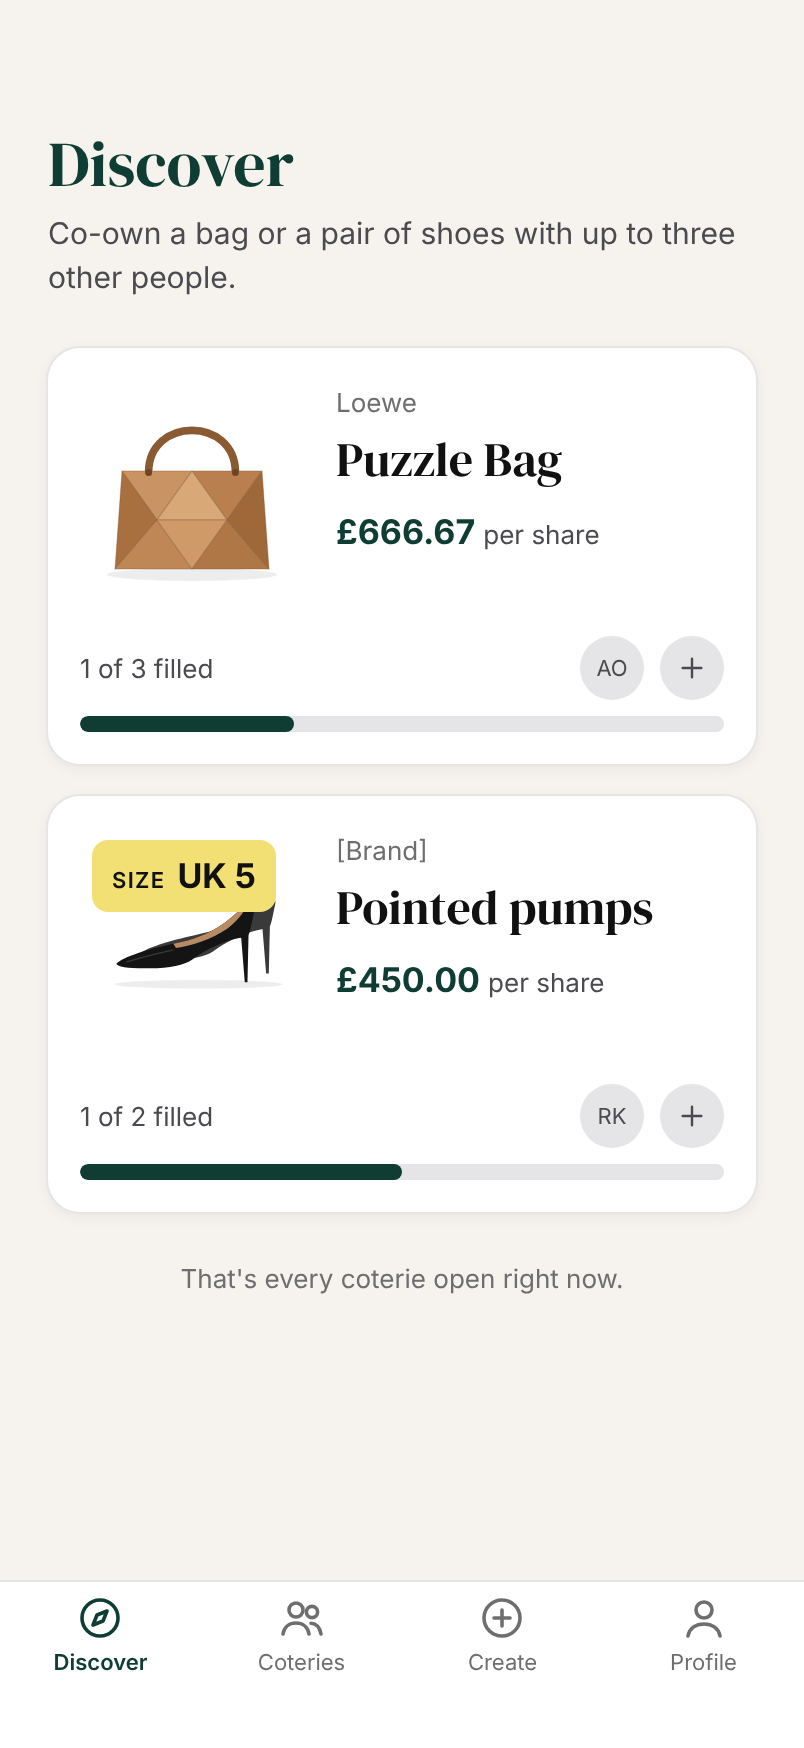
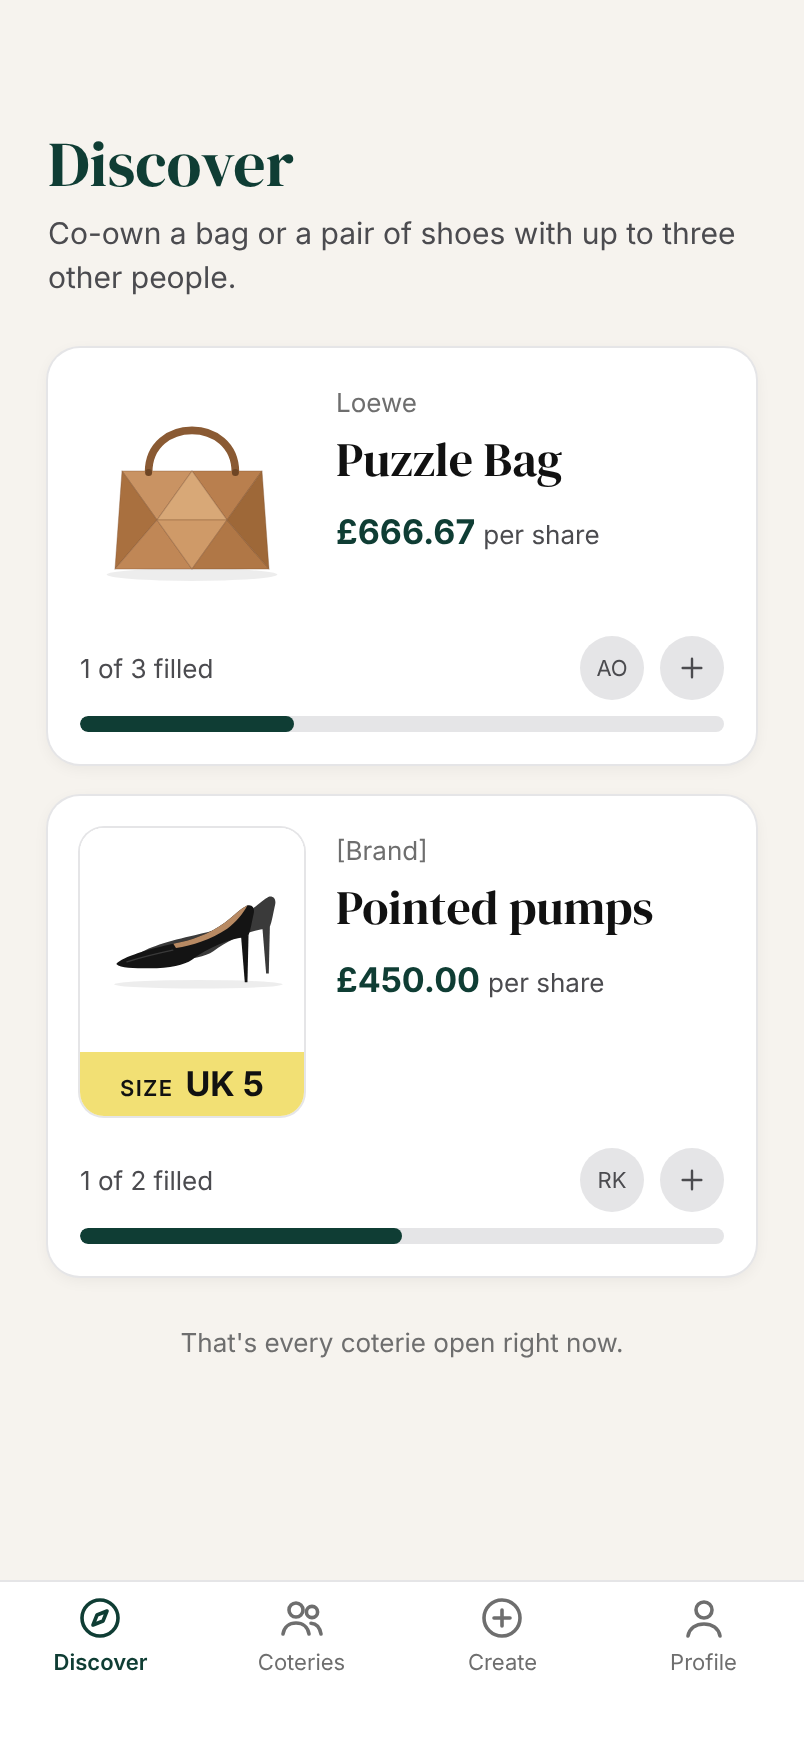
docs(plan-4): the card's size badge sits under the photo, not over it
On a 112pt thumbnail the corner badge covered about a quarter of the
photo, and real product photos fill 60-70% of the frame, so any overlay
would sit on the item. Agreed instead: a yellow strip attached under the
thumbnail, sharing one tile with the photo.

- Task 1: OursSizeBadge's emphasis is `.strip` (17pt, full width,
  square corners) or `.detail` (24pt); `.card` is gone.
- Task 2: the Discover card's thumbnail is photo + strip in one
  radiusSm tile with a mist hairline. Shoe cards are ~32pt taller.
- Screenshots 01 and 23 re-exported.

Claude-Session: https://claude.ai/code/session_011C51ZTw1UKT1v3BrvBzYU2

diff --git a/plans/2026-11-08-plan-4-screens-to-mockups.md b/plans/2026-11-08-plan-4-screens-to-mockups.md
@@ -22,7 +22,7 @@ Made with the user while reviewing the mock-ups (2026-11-07 and 2026-11-08).
 | No funding deadline, no term, no day count | No deadline, "12 months" or "121 days" anywhere. "Your use: Equal time on a shared calendar" stays |
 | Funding copy | "N of M filled" on Discover cards, the detail screen and "You're in". Never "committed" |
 | New items only | No condition field in the wizard |
-| Size badge | A new, larger size badge, on the photo's top-left corner of Discover cards and beside the name on the detail screen (Task 1) |
+| Size badge | A new, larger size badge: a yellow strip attached under the thumbnail on Discover cards (never laid over the photo, which real products fill), and beside the name on the detail screen (Task 1) |
 | Ownership card | `OursOwnershipCard` as merged in `coterie-design` #8: share ring, one status line in words, co-owner avatars, no badges, no money |
 | Badges | Status in words; a badge only asks for action or flags a problem. The detail screen keeps its "Full" and "Your share" badges as mocked |
 | Payment | Not built. Every place payment will go shows the dashed placeholder box (Task 5) |
@@ -57,8 +57,8 @@ Made with the user while reviewing the mock-ups (2026-11-07 and 2026-11-08).
 
 ```swift
 public struct OursSizeBadge: View {
-    public enum Emphasis: Sendable { case card, detail }
-    public init(_ size: String, emphasis: Emphasis = .card)   // "UK 5"
+    public enum Emphasis: Sendable { case strip, detail }
+    public init(_ size: String, emphasis: Emphasis = .strip)   // "UK 5"
 }
 
 public enum OursChipSize: Sendable { case regular, large, tile }
@@ -66,7 +66,7 @@ public enum OursChipSize: Sendable { case regular, large, tile }
 ```
 
 **Spec:**
-- **Size badge:** `yellow` fill, `ink` text (14.1:1), `radiusXs`. A "SIZE" label in Inter Semibold 11, uppercase, tracking +0.06em, then the value in Inter Bold: 17pt for `.card` (padding 6×10), 24pt for `.detail` (padding 8×14). VoiceOver reads "Size UK 5".
+- **Size badge:** `yellow` fill, `ink` text (14.1:1), `radiusXs`. A "SIZE" label in Inter Semibold 11, uppercase, tracking +0.06em, then the value in Inter Bold. `.strip`: 17pt, full width of its container, 4pt top and bottom, centred, square corners: it sits under a thumbnail and the two share one tile (below). `.detail`: 24pt, padding 8×14, `radiusXs`. VoiceOver reads "Size UK 5".
 - **Chip `.large`:** 56pt tall, value in `h3`, equal widths when placed in a grid. Used for the number of owners.
 - **Chip `.tile`:** 128pt tall, `radiusMd`, a 32pt symbol above the label in `button` style. Used for the category.
 - All three chip sizes keep `OursChip`'s colours: resting `surfaceBase` with a 1pt `outline` border, selected `forest` with a white label.
@@ -85,7 +85,7 @@ public enum OursChipSize: Sendable { case regular, large, tile }
 - **Header:** title "Discover" (`h1`, `forest`) as before, now with a subtitle under it in `body` `slate`: "Co-own a bag or a pair of shoes with up to three other people." Shown in every state except failed.
 - **Card:** keep `OursProductCard`'s layout (112pt photo left, brand, serif name, price), with these changes:
   - Price reads `£666.67` in `body-lg-strong` `forest`, followed by "per share" in `body-sm` `slate`.
-  - The size badge moves off the footer and onto the photo: `OursSizeBadge(size, emphasis: .card)`, 6pt in from the photo's **top-left** corner. Bags show none.
+  - The size badge moves off the footer and **under the photo**: a 112pt-wide column of the photo then `OursSizeBadge(size, emphasis: .strip)`, clipped together to one `radiusSm` tile with a 1pt `mist` hairline, so photo and strip read as one piece. It never overlaps the photo. Shoe cards are about 32pt taller than bag cards; that's expected. Bags show none.
   - The footer is one row and a bar: "N of M filled" (`body-sm` `slate`) on the left, `OursAvatarGroup(people:, showsOpenPlace: !isFull)` on the right, then the 8pt funding track full width underneath. Build it with `OursFundingBar`'s track and the label row above it.
 - **End of list:** after the last card, centred, `body-sm` `stone`: "That's every coterie open right now." Only when the list has loaded and isn't empty.
 - **Empty:** symbol `bag` in the 72pt `lavenderDeep` disc. Title "Nothing to join yet" (`h2`). Body "Be the first. Start a coterie for a bag or a pair of shoes you love, and others can join you." Primary "Start a coterie" calls `startCreating()`.
